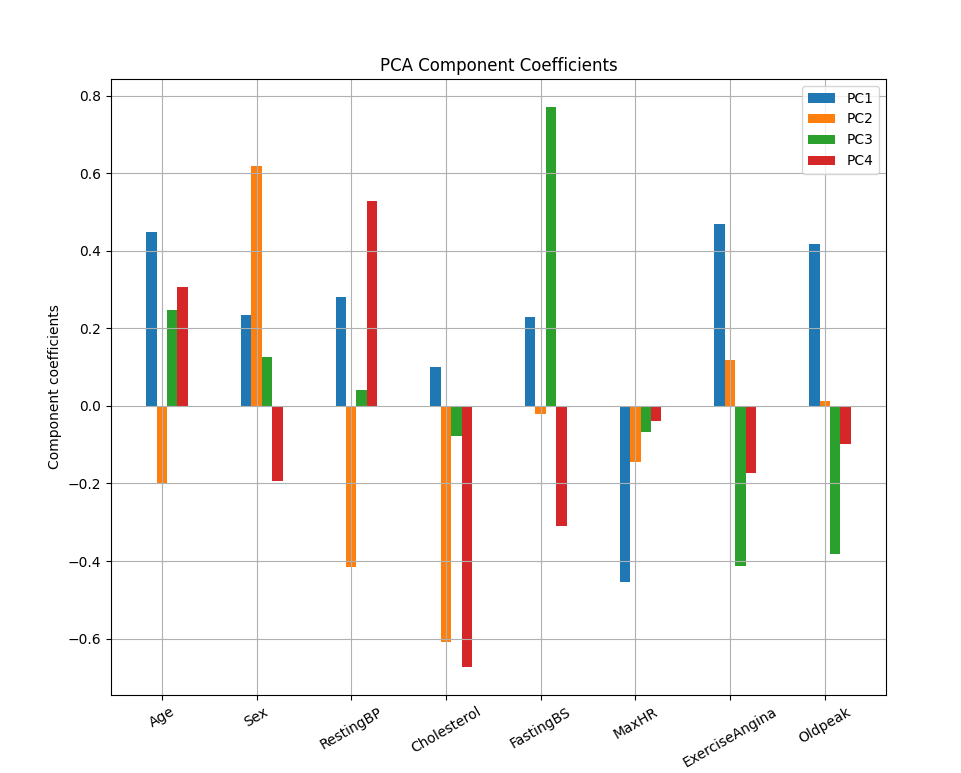
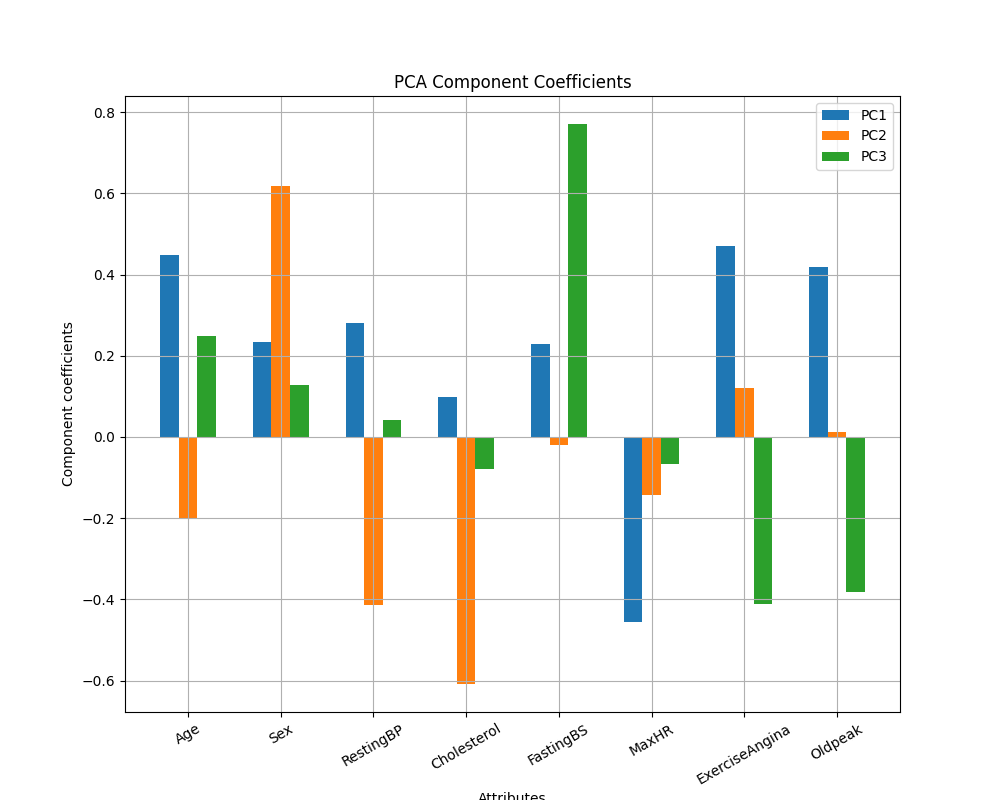
last mods to hand in assignment 1

diff --git a/Project/heart_project.py b/Project/heart_project.py
@@ -136,11 +136,11 @@ def pca_analysis(X, y, attributeNames):  #returns nothing
 
     # %% PCA SECTION --> Principal directions of considered PCA components
     N,M = X_pca.shape
-    num_pcs = 4
+    num_pcs = 3
     pcs = np.arange(0,num_pcs)
     legendStrs = ['PC'+str(e+1) for e in pcs]
     c = ['r','g','b']
-    bw = .11
+    bw = .2
     r = np.arange(1,M+1)
     plt.figure(figsize=(10, 8))
     for i in pcs:
